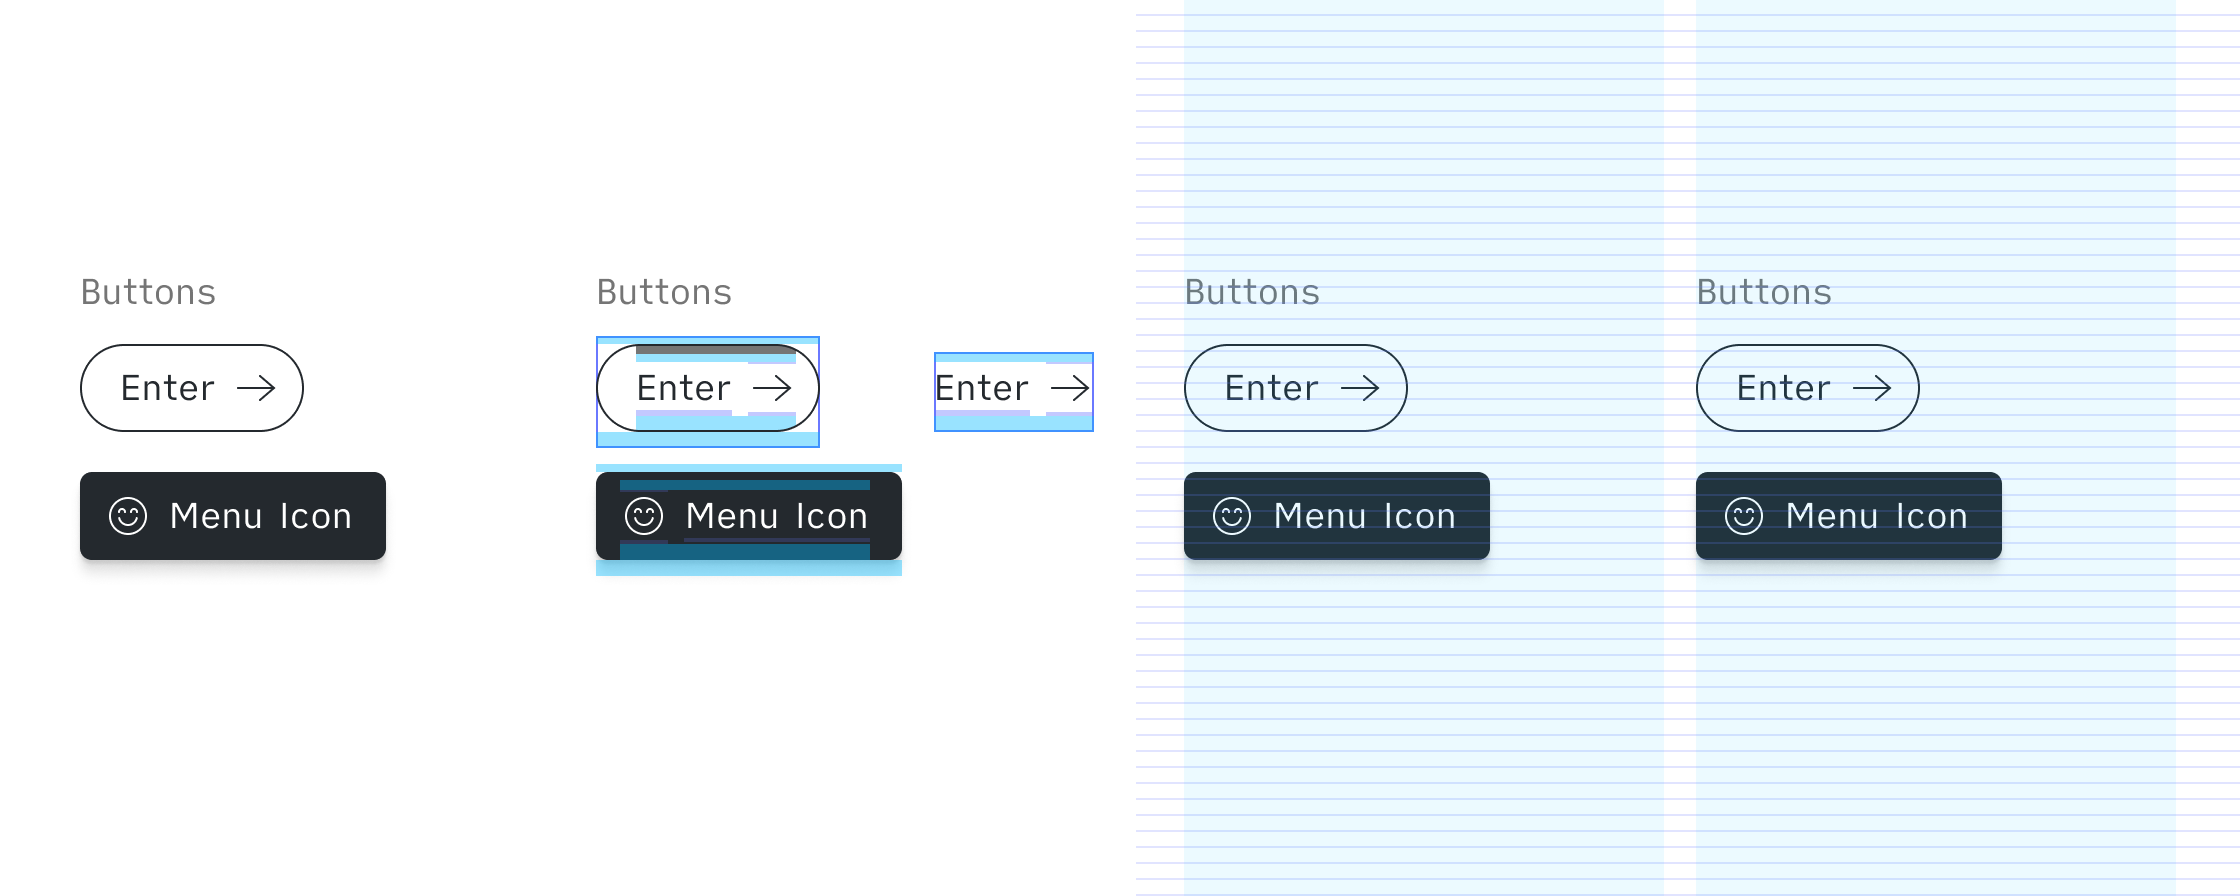
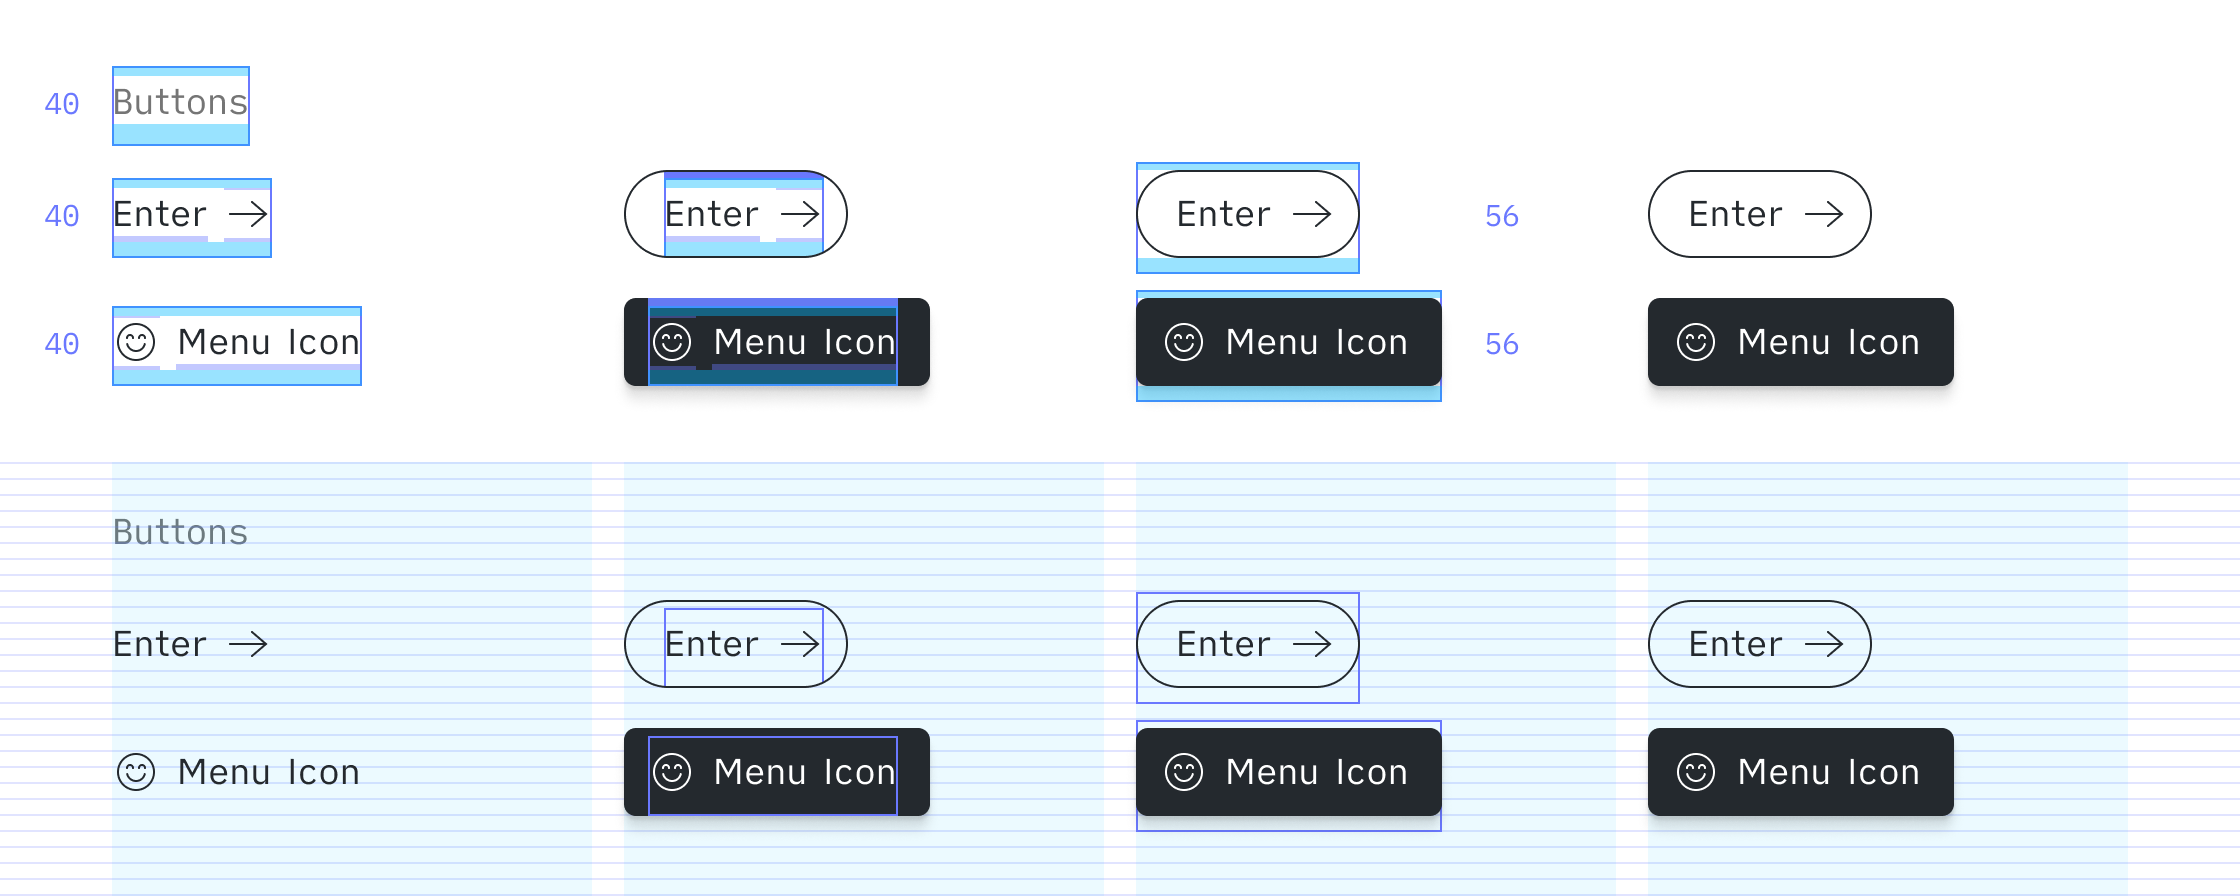
Buttons and Inputs images

diff --git a/src/routes/writings/Grid/On-the-8px-grid.md b/src/routes/writings/Grid/On-the-8px-grid.md
@@ -165,7 +165,7 @@ So just to make sure the benefits are clear, let's look at the initial example, 
 ![Font Boxing Demo](../../assets/images/../../../assets/images/Writings/Grid/font-boxing-benefits.png)
 
 See what's hapenning here?
-All spacers are now multiple of 8, all font containers are multiple of 8, but everything sits perfectly on the baseline by default. 
+All spacers are now multiple of 8, all font containers are multiple of 8, but everything sits perfectly on the baseline by default.
 
 The implementation start to already feel as simple as with the soft grid method.
 
@@ -224,17 +224,33 @@ And thus, here how easy and perfectly snapped is a footer using these links.
 Something strange happened when I worked on the buttons. Unlike what I'm used to, I couldnt find a way to have both the button to be perfectly on the 8px grid, nor have the font aligned on the baseline. But after some get used to, now it feels like a necessary even – that actually doesn't fall off of our previous guidelines.
 
 Might feel un natural but the same logic used for the font is applied for the buttons.
-Keep the font content on the baseline, build your button shape, vertically centered as pleased around it, and then and only then can you box the whole thing in it's container, with paddings up and down to sit the button on its grid.
+Keep the font content on the baseline, build your button shape, vertically centered as pleased around it. Then and only then can you box the whole thing in it's container, with paddings up and down to sit the button on its grid.
 
 > Illustrations are WIP
 
 ##### Inputs
 
-![footer made of the link components](../../assets/images/../../../assets/images/Writings/Grid/inputs.png)
+![footer made of the link components](../../assets/images/../../../assets/images/Writings/Grid/input-v1.png)
+
+Another version of the inputs that could be considered more tricky?
+Indeed in this case, I'm using margin negative... but 16px, multiple of 8 as well!
+
+![footer made of the link components](../../assets/images/../../../assets/images/Writings/Grid/input-v2.png)
+
+**Note on the borders:**
+Wether or not the borders are inside or outside type of outline, it doesn't impact the size of your container. It's like a virtual invisible coat of paint on a shape. It's not going to be affecting your spacing.
+
+If you have some issues managing borders in css, have a look at box-sizing: border-box method [on CSS Tricks](https://css-tricks.com/box-sizing/) and play around with *border* and/or *outline* css property!
 
 ##### Buttons
 
+Similarly with the buttons, the outline of the buttons can't snap on the grid if we want the font to seat on the baseline, but the Button containers needs some padding tweeks to fit our rule.
+
 ![footer made of the link components](../../assets/images/../../../assets/images/Writings/Grid/buttons.png)
+
+An example of menus and buttons living together. Everything vertically align perfectly! Everything is on an irreprochable baseline. We did it! ✅
+
+![footer made of the link components](../../assets/images/../../../assets/images/Writings/Grid/menu-buttons.png)
 
 ##### Forms
 
